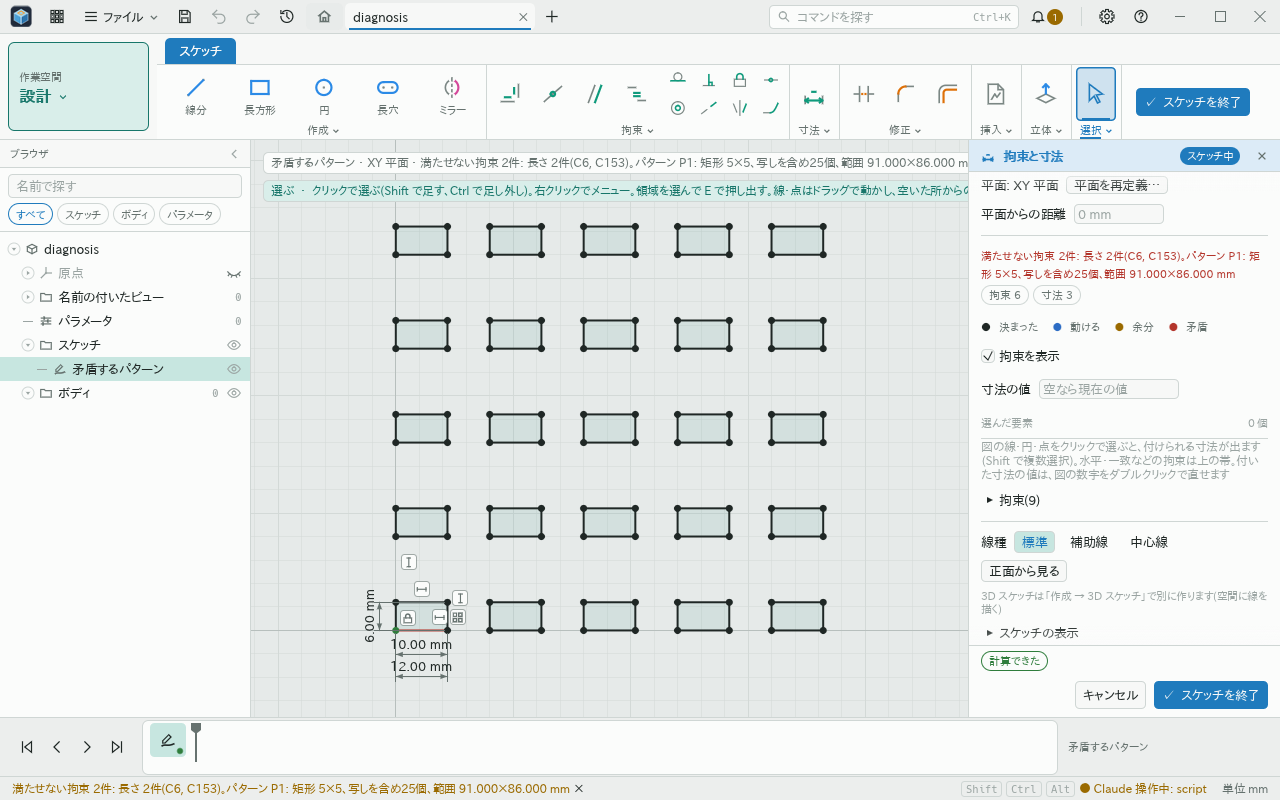
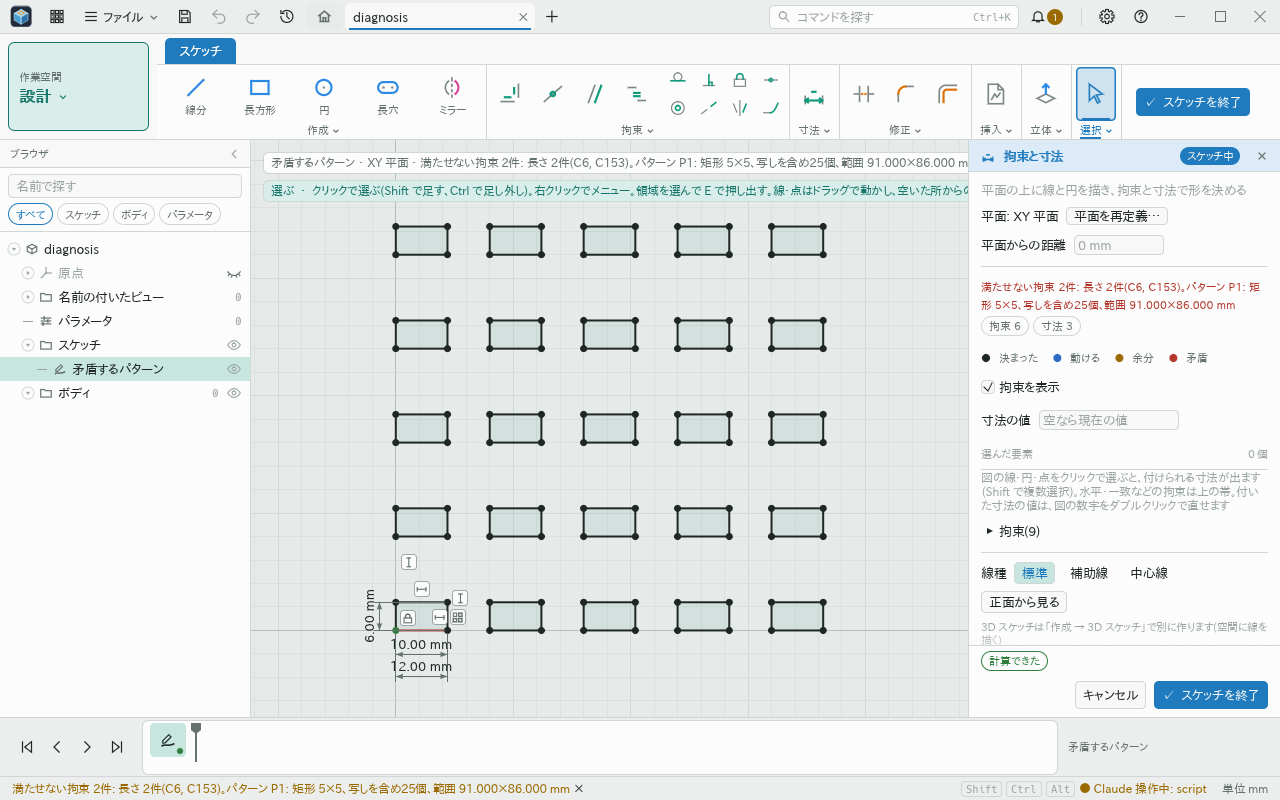
実画面で診断理由と拡大時の表示を確認する

Changed region(s): [[0.75, 0.2188, 1.0, 0.8125], [0.9375, 0.7812, 0.9688, 0.8125]]

diff --git a/docs/機能/2026-10-27-スケッチの解と矛盾の理由-cdx035.md b/docs/機能/2026-10-27-スケッチの解と矛盾の理由-cdx035.md
@@ -28,4 +28,4 @@
 
 修正前の投影元の遠い移動の再現では、矛盾の判定は起きず、完全拘束のまま形が反対側へ移る。試験は前の形に近い解へ付いて来ることを確かめる。
 
-[診断の表示](../screenshots/sketch-diagnostics-after-cdx035.png)と[字の倍率250%](../screenshots/sketch-diagnostics-250-cdx035.png)で、理由の表示を確認できる。
+[変更前の表示](../screenshots/sketch-diagnostics-before-cdx035.png)と[診断の表示](../screenshots/sketch-diagnostics-after-cdx035.png)を比較できる。[字の倍率250%](../screenshots/sketch-diagnostics-250-cdx035.png)でも、右パネルの理由は全文を折り返す。下の共通の帯は末尾が画面外へ切れる。
